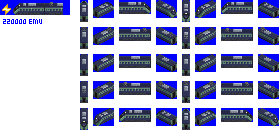
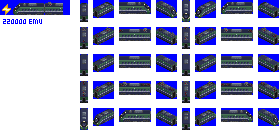
EMU-150 스프라이트 변경

Changed region(s): [[0.2867, 0.0, 1.0, 1.0], [0.0, 0.0, 0.2581, 0.1846], [0.2867, 0.0, 0.3154, 0.0923]]

diff --git a/docs/changelog.md b/docs/changelog.md
@@ -1,3 +1,7 @@
+2022.06.05
+-----
+* EMU-150 (스프라이트 변경, 가문비님 제작)
+
 2022.05.28
 일부 열차는 YST에서 분리되는 과정에서 열차 명칭이 변경되었습니다.
 -----
